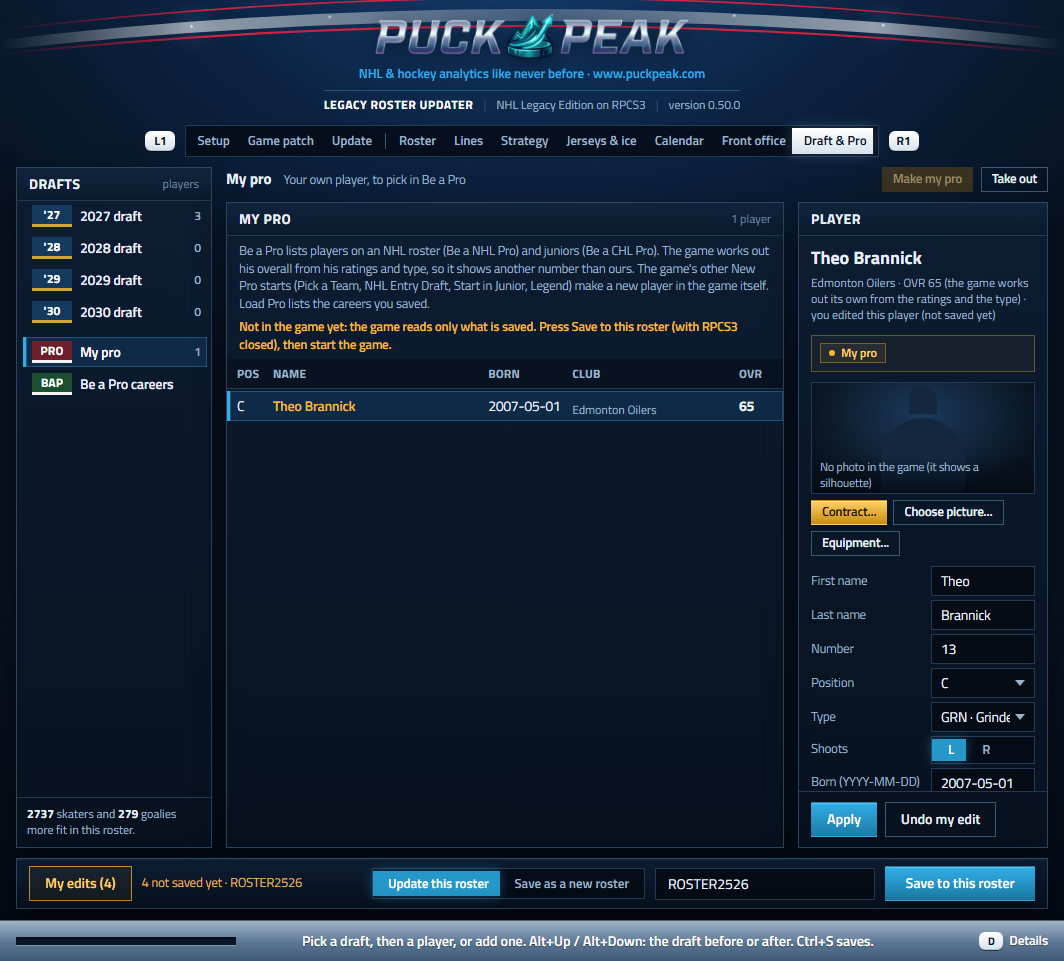
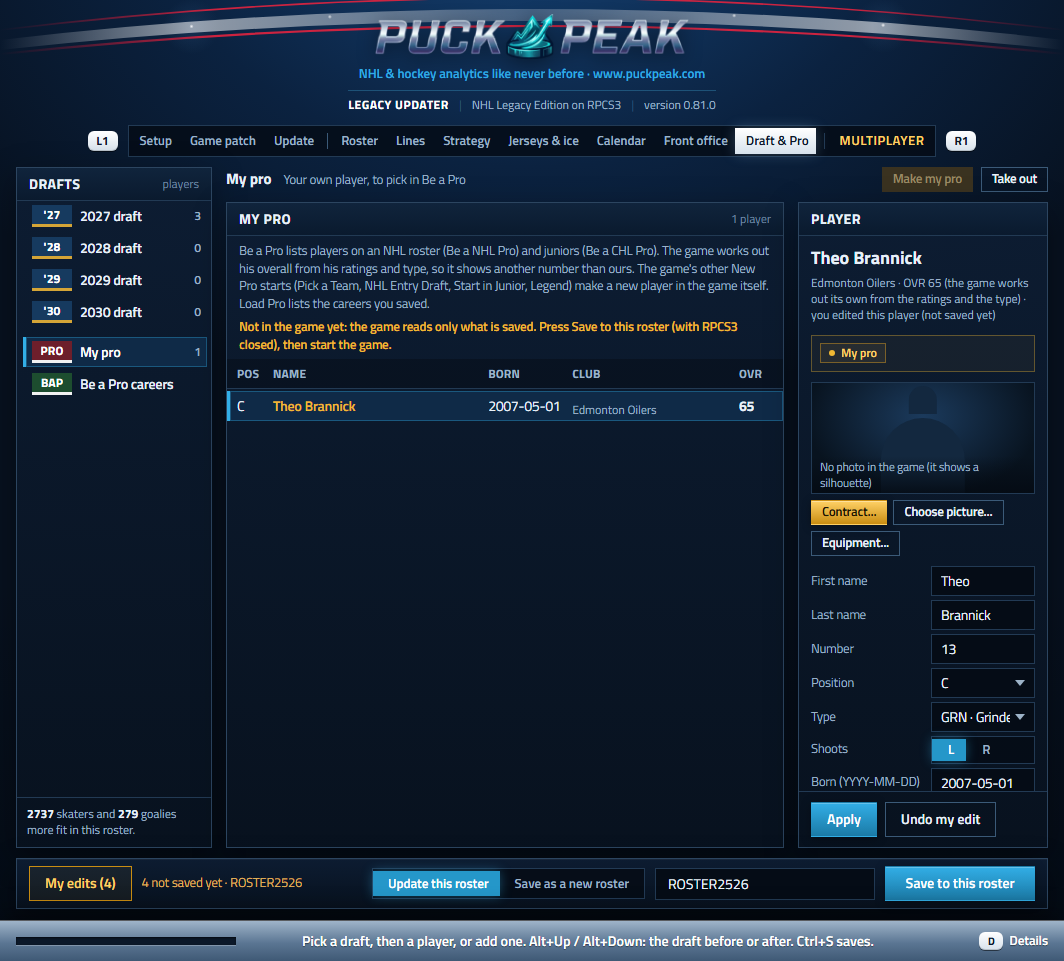
README screenshots remade for 0.81.0; window_shot 'done' also switches team names off
Issue #1 (the Roster editor refused to save the game's own roster: "Seattle has no captains") is fixed in 0.81.0.

Changed region(s): [[0.062, 0.0937, 0.9305, 0.1873]]

diff --git a/tools/window_shot.py b/tools/window_shot.py
@@ -194,6 +194,8 @@ def drive(args, c, work):
                 upd.steps[key] = True
         if not args.disc:                   # the pretend RPCS3 has no game to make pictures from
             upd.photos = False
+            for part in upd.art_on:         # team names too: they need the game's own files
+                upd.art_on[part] = False
         upd.select(os.path.basename(BASE))
         upd.start()
         wait(lambda: upd.busy, 10)
